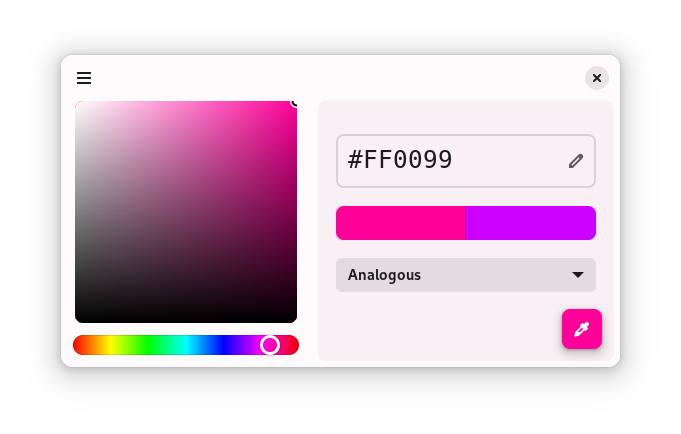
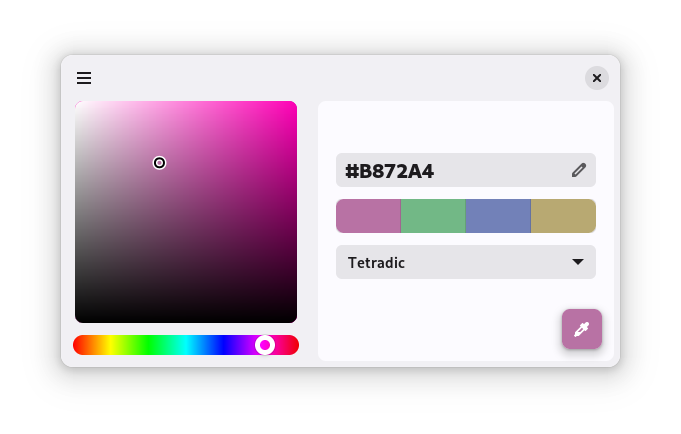
*

diff --git a/data/style.css b/data/style.css
@@ -1,29 +1,19 @@
 /* app */
-@define-color accent_color #6e4da1;
-@define-color accent_bg_color #6e4da1;
-@define-color accent_fg_color white;
-@define-color window_bg_color #fffafc;
-@define-color view_bg_color #f8f0f4;
-@define-color headerbar_bg_color #fffafc;
-@define-color popover_bg_color #f8f0f4;
-@define-color popover_fg_color #1d1b1e;
-@define-color window_fg_color #1d1b1e;
-@define-color view_fg_color #1d1b1e;
-@define-color headerbar_fg_color #1d1b1e;
+@define-color accent_color #9771d6;
+@define-color accent_bg_color #d0baff;
+@define-color accent_fg_color #f9f6ff;
+@define-color window_bg_color #f1f0f4;
+@define-color view_bg_color #fcfbff;
+@define-color headerbar_bg_color #f1f0f4;
+@define-color popover_bg_color #fcfbff;
+@define-color popover_fg_color #303032;
+@define-color window_fg_color #303032;
+@define-color view_fg_color #303032;
+@define-color headerbar_fg_color #303032;
 
 .solid-csd {
   box-shadow: none;
   outline: 1px solid @borders;
-}
-
-.clr-title {
-  font-size: 1.66rem;
-  font-weight: 500;
-  font-family: monospace;
-  background: none;
-  border: 2px solid @borders;
-  padding: 8px 10px;
-  border-radius: 8px;
 }
 
 .clr-hue trough {
@@ -38,11 +28,10 @@
     );
     min-height: 20px;
     padding: 0 6px;
-    box-shadow: inset 0 0 0 1px @borders;
 }
 
 .clr-hue slider {
-	box-shadow: inset 0 0 0 3px #fff, 0 1px 3px -0.4px @borders;
+	box-shadow: inset 0 0 0 5px #fff, 0 2px 4px -0.8px @borders;
 	border: none;
 	min-width: 20px;
 	min-height: 20px;
